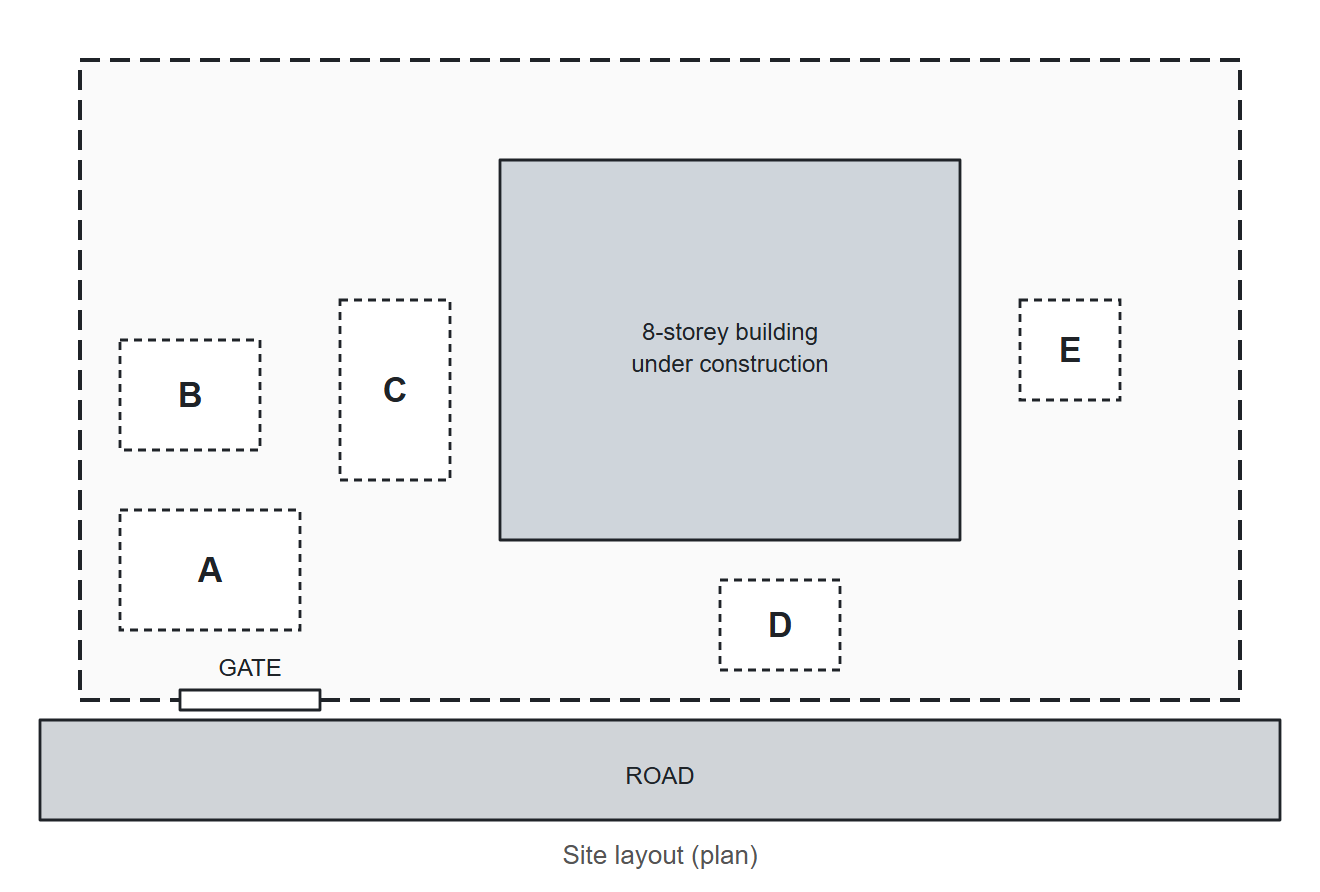
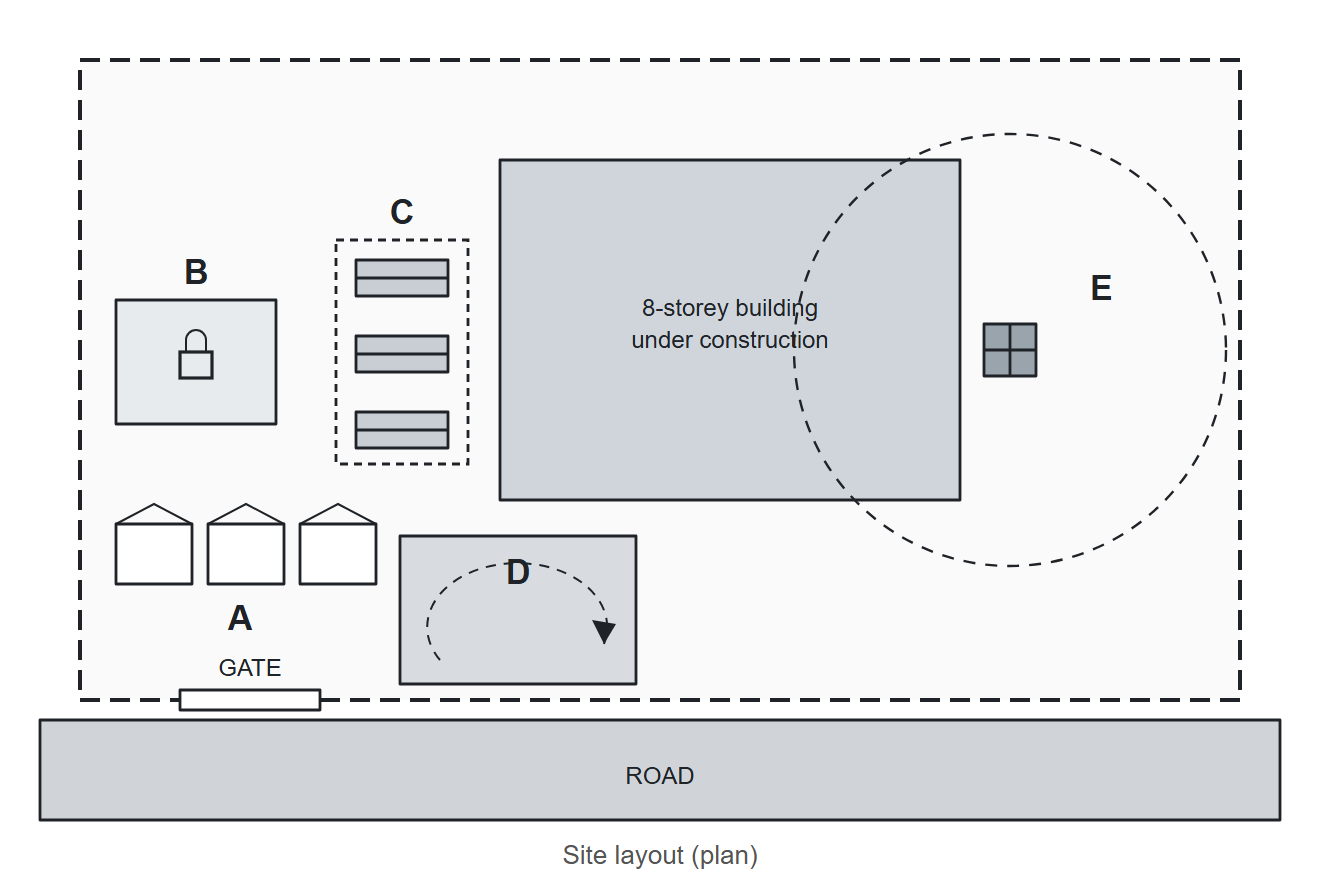
Fix the eight open question reports
Resume now saves and restores the play order. Practice mode reshuffled the
module on every resume while the answer log stayed in old positions, so
returning to a module mixed up which questions were answered or missed.

Questions that started mid-scenario ("for that same room", "along that same
wall") now carry their own numbers, so a shuffled bank still makes sense.
The site-layout figure is redrawn to actually show the facilities its five
questions ask about: cabins, a locked store, an open stockpile yard, a paved
turning bay, and a crane inside its operating radius. The glass-impurity
question asked for an impurity and listed colours; it now lists impurities.
The CHB fence question states that stiffener columns are not deducted, and
the paternoster note gives the name's origin.

diff --git a/run.html b/run.html
@@ -1061,6 +1061,10 @@ function tryResume(){
     onResume: (payload) => {
       if(payload && Array.isArray(payload.answersLog)){
         answersLog = payload.answersLog;
+        // The play order has to come back with the answers. Without it the
+        // module reshuffles on resume and every logged answer lands on a
+        // different question.
+        if(Array.isArray(payload.order) && payload.order.length) order = payload.order;
         frontier = payload.frontier || 0;
         pos = Math.min(payload.pos || 0, order.length - 1);
         if(Array.isArray(payload.flagged)) flaggedSet = new Set(payload.flagged);
@@ -1082,7 +1086,7 @@ function saveResumeState(){
   const answeredCount = answersLog.filter(a => a && !a.skipped).length;
   LEAResume.save(SUBJECT.id, resumeKey(), {
     answeredCount, total: order.length, position: pos + 1,
-    payload: { answersLog, frontier, pos, flagged: Array.from(flaggedSet), masteredAtStart }
+    payload: { order, answersLog, frontier, pos, flagged: Array.from(flaggedSet), masteredAtStart }
   });
 }
 

diff --git a/sw.js b/sw.js
@@ -30,7 +30,7 @@
 // the last change (the subject list moving to network-first) shipped without
 // one, which left the old copy sitting in the old cache on every device that
 // had visited before.
-const VERSION = 'lea-v75';
+const VERSION = 'lea-v76';
 const SHELL = VERSION + '-shell';
 const DATA = VERSION + '-data';
 const VENDOR = VERSION + '-vendor';

diff --git a/tools/quiz_figures.py b/tools/quiz_figures.py
@@ -333,21 +333,48 @@ def nailing():
 
 
 def site_layout():
+    """Construction site plan. Each lettered zone is drawn as what it is — the
+    questions ask the reader to recognise the facility, so the drawing has to
+    show one: cabins, a locked store, a stockpile yard, a paved turning bay,
+    and a crane with its operating radius."""
     b = []
     b.append(rect(20, 360, 620, 50, '#d0d4d8') + cap(330, 392, 'ROAD', cls='t'))
     b.append(f'<rect x="40" y="30" width="580" height="320" fill="#fafafa" stroke="{INK}" stroke-width="2" stroke-dasharray="10 5"/>')
     b.append(rect(90, 345, 70, 10, '#fff', 'stroke-width="0"') + cap(125, 338, 'GATE', cls='t'))
-    b.append(rect(250, 80, 230, 190, '#cfd5db'))
-    b.append(cap(365, 170, '8-storey building', cls='t') + cap(365, 186, 'under construction', cls='t'))
+    b.append(rect(250, 80, 230, 170, '#cfd5db'))
+    b.append(cap(365, 158, '8-storey building', cls='t') + cap(365, 174, 'under construction', cls='t'))
 
-    def zone(letter, x, y, w, h):
-        return (f'<rect x="{x}" y="{y}" width="{w}" height="{h}" fill="#fff" stroke="{INK}" stroke-width="1.4" stroke-dasharray="4 3"/>'
-                f'<text class="L" x="{x + w / 2}" y="{y + h / 2 + 6}" text-anchor="middle">{letter}</text>')
-    b.append(zone('A', 60, 255, 90, 60))     # near the gate, clear of the building
-    b.append(zone('B', 60, 170, 70, 55))     # beside A, fenced and watched
-    b.append(zone('C', 170, 150, 55, 90))    # next to the building, off the gate road
-    b.append(zone('D', 360, 290, 60, 45))    # building edge facing the road
-    b.append(zone('E', 510, 150, 50, 50))    # tight to the building's long side
+    # E — tower crane: hatched mast inside its dashed operating radius.
+    b.append(f'<circle cx="505" cy="175" r="108" fill="none" stroke="{INK}" stroke-width="1.2" stroke-dasharray="6 5"/>')
+    b.append(rect(492, 162, 26, 26, '#9aa4ad'))
+    b.append(line(505, 162, 505, 188, 's') + line(492, 175, 518, 175, 's'))
+    b.append(f'<text class="L" x="545" y="150">E</text>')
+
+    # A — site accommodation: a row of cabins just inside the gate.
+    for i in range(3):
+        b.append(rect(58 + i * 46, 262, 38, 30, '#fff'))
+        b.append(f'<polyline class="lead" points="{58 + i * 46},262 {77 + i * 46},252 {96 + i * 46},262"/>')
+    b.append(f'<text class="L" x="120" y="315" text-anchor="middle">A</text>')
+
+    # B — secure store: solid, closed cabin with a padlock.
+    b.append(rect(58, 150, 80, 62, '#e8ebee'))
+    b.append(f'<rect x="90" y="176" width="16" height="13" fill="none" stroke="{INK}" stroke-width="1.6"/>')
+    b.append(f'<path class="lead" d="M93,176 v-6 a5,5 0 0 1 10,0 v6"/>')
+    b.append(f'<text class="L" x="98" y="142" text-anchor="middle">B</text>')
+
+    # C — open materials yard: stacks in the open, no enclosure.
+    b.append(f'<rect x="168" y="120" width="66" height="112" fill="none" stroke="{INK}" stroke-width="1.4" stroke-dasharray="4 3"/>')
+    for y in (130, 168, 206):
+        b.append(rect(178, y, 46, 18, '#c8ced4'))
+        b.append(line(178, y + 9, 224, y + 9, 's'))
+    b.append(f'<text class="L" x="201" y="112" text-anchor="middle">C</text>')
+
+    # D — paved hardstand off the gate, with the vehicle turning arc.
+    b.append(rect(200, 268, 118, 74, '#d8dce0'))
+    b.append(f'<path class="lead" d="M220,330 a45,32 0 1 1 82,-8" stroke-dasharray="5 4"/>')
+    b.append('<polygon fill="%s" points="302,322 296,310 308,312"/>' % INK)
+    b.append(f'<text class="L" x="259" y="292" text-anchor="middle">D</text>')
+
     b.append(cap(330, 432, 'Site layout (plan)'))
     return svg(660, 446, ''.join(b))
 
